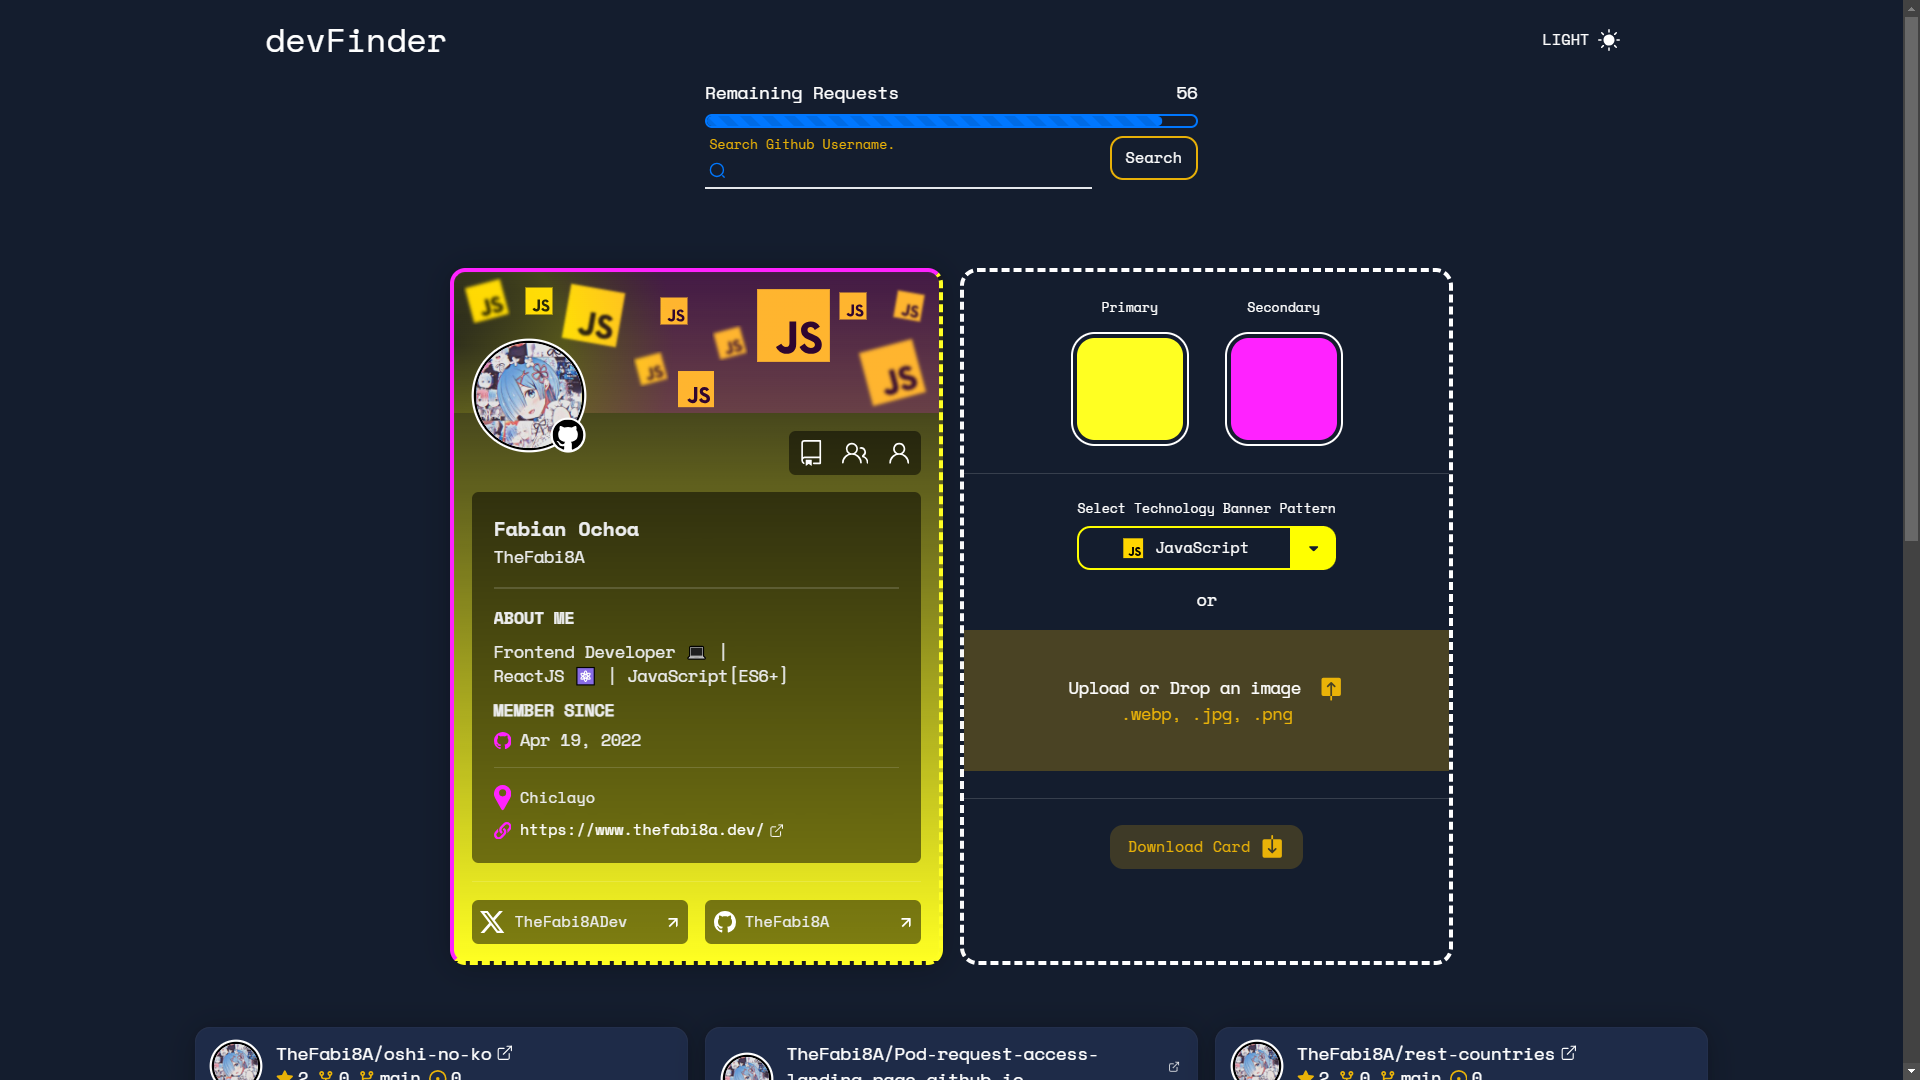
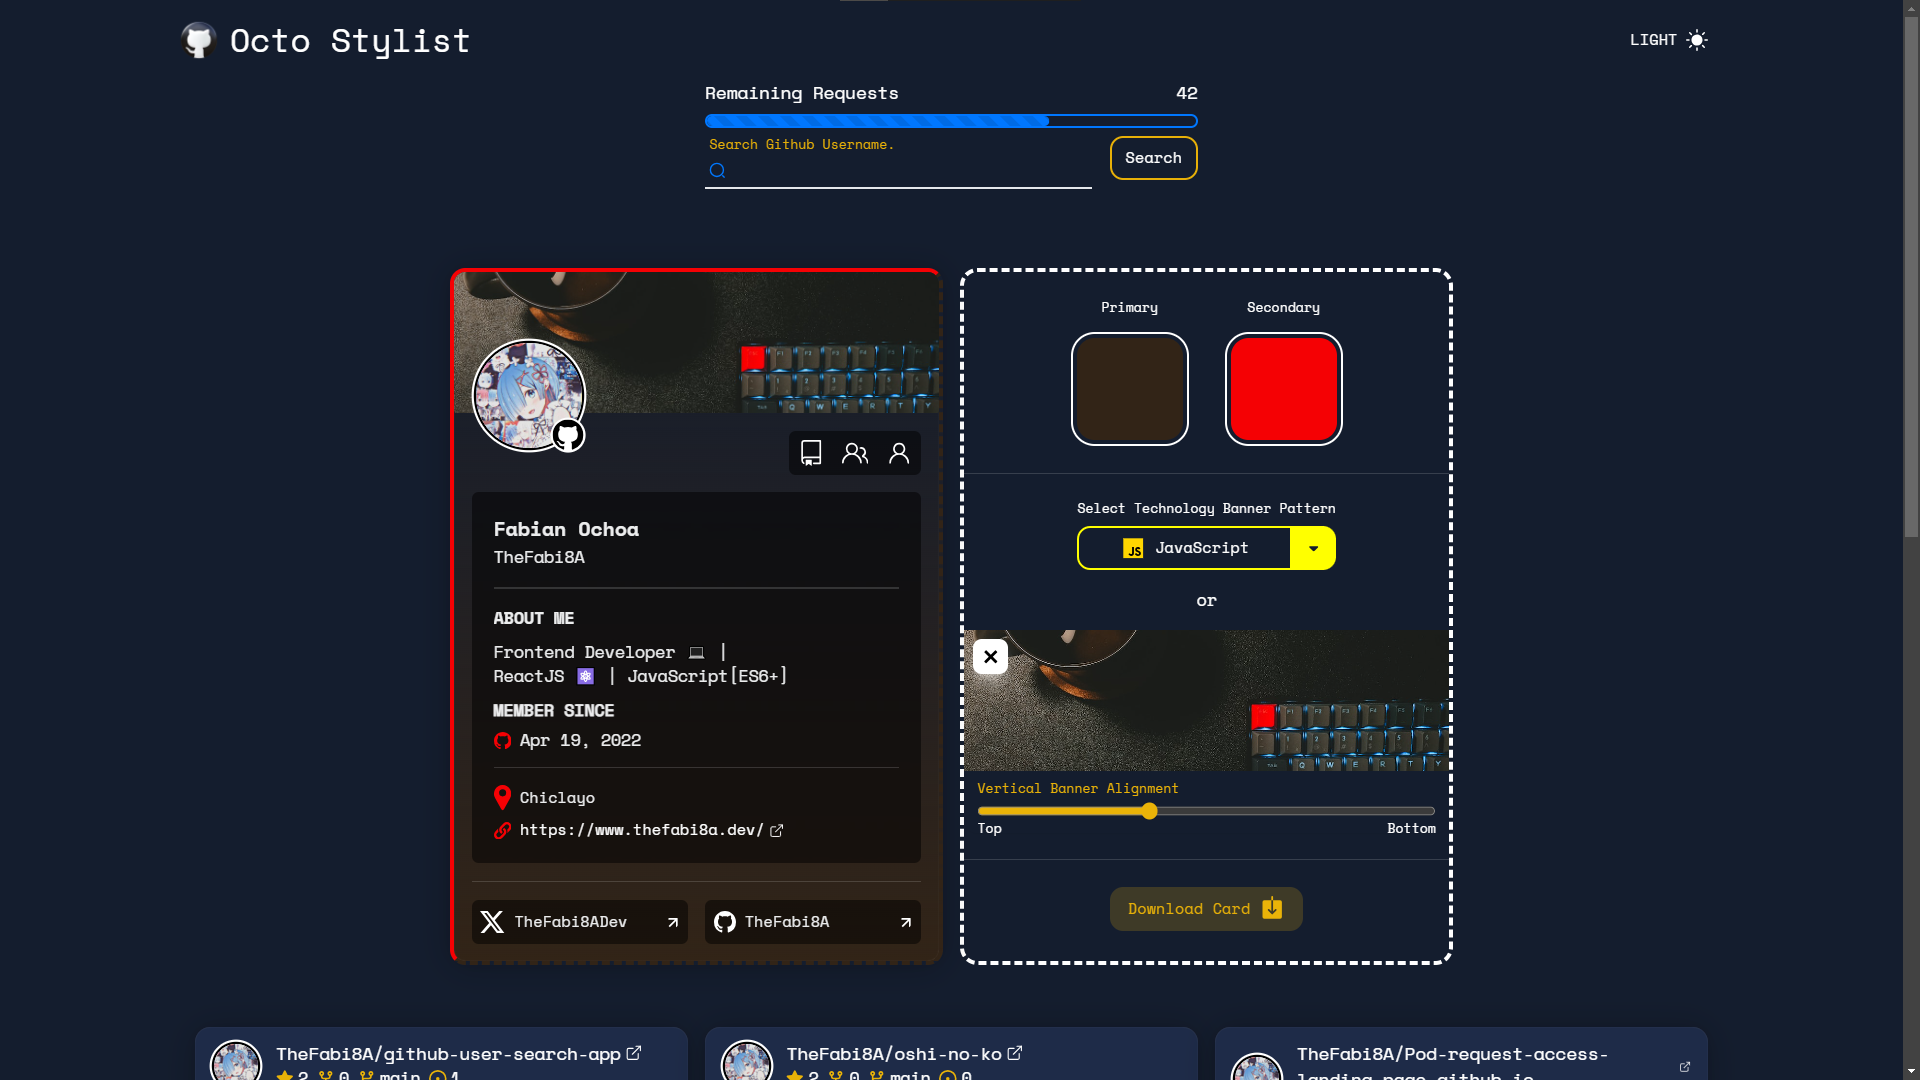
feat: fixed styles UserCard, optimized SEO & update screenshots

diff --git a/index.html b/index.html
@@ -4,7 +4,41 @@
 <head>
   <meta charset="UTF-8" />
   <meta name="viewport" content="width=device-width, initial-scale=1.0" />
-  <title>Github User Search App</title>
+  <title>Octo Stylist</title>
+  <meta name="description" content="User search engine on GitHub 👾 with menu to customize the card and download it.">
+  <link rel="canonical" href="https://oshi-no-ko-thefabi8a.vercel.app/" />
+  <meta property="og:title" content="Octo Stylist" />
+  <meta property="og:image" content="https://octo-stylist.vercel.app/screenshot-dark.png" />
+  <meta property="og:image:alt"
+    content="screenshot in dark mode showing thefabi8a user's card and a menu for customizing the colors and image of the card banner" />
+  <meta property="og:type" content="website" />
+  <meta property="og:description"
+    content="User search engine on GitHub 👾 with menu to customize the card and download it." />
+  <meta property="og:url" content="https://octo-stylist.vercel.app/" />
+  <meta property="twitter:url" content="https://octo-stylist.vercel.app/" />
+  <meta property="twitter:card" content="summary_large_image" />
+  <meta property="twitter:creator" content="@TheFabi8ADev" />
+  <meta property="twitter:title" content="Octo Stylist" />
+  <meta property="twitter:description"
+    content="User search engine on GitHub 👾 with menu to customize the card and download it." />
+  <meta property="twitter:image" content="https://octo-stylist.vercel.app/screenshot-dark.png" />
+  <link rel="apple-touch-icon" sizes="57x57" href="assets/icons/apple-icon-57x57.png" />
+  <link rel="apple-touch-icon" sizes="60x60" href="assets/icons/apple-icon-60x60.png" />
+  <link rel="apple-touch-icon" sizes="72x72" href="assets/icons/apple-icon-72x72.png" />
+  <link rel="apple-touch-icon" sizes="76x76" href="assets/icons/apple-icon-76x76.png" />
+  <link rel="apple-touch-icon" sizes="114x114" href="assets/icons/apple-icon-114x114.png" />
+  <link rel="apple-touch-icon" sizes="120x120" href="assets/icons/apple-icon-120x120.png" />
+  <link rel="apple-touch-icon" sizes="144x144" href="assets/icons/apple-icon-144x144.png" />
+  <link rel="apple-touch-icon" sizes="152x152" href="assets/icons/apple-icon-152x152.png" />
+  <link rel="apple-touch-icon" sizes="180x180" href="assets/icons/apple-icon-180x180.png" />
+  <link rel="icon" type="image/png" sizes="192x192" href="assets/icons/android-icon-192x192.png" />
+  <link rel="icon" type="image/png" sizes="32x32" href="assets/icons/favicon-32x32.png" />
+  <link rel="icon" type="image/png" sizes="96x96" href="assets/icons/favicon-96x96.png" />
+  <link rel="icon" type="image/png" sizes="16x16" href="assets/icons/favicon-16x16.png" />
+  <meta name="msapplication-TileImage" content="assets/icons/ms-icon-144x144.png" />
+  <link rel="manifest" href="/manifest.json" />
+  <meta name="msapplication-TileColor" content="#ffffff" />
+  <meta name="theme-color" content="#000000" />
 </head>
 
 <body

diff --git a/src/Components/MenuStylesCard/index.js b/src/Components/MenuStylesCard/index.js
@@ -26,7 +26,6 @@ export const Index = () => {
     CompanyIconRef,
     WebsiteIconRef,
     GitHubUserCardRef,
-    theme,
     BannerGradientOneRef,
     BannerGradientTwoRef,
   } = useContext(GithubUserContext);
@@ -119,9 +118,7 @@ export const Index = () => {
     const value = e.target.value;
 
     if (GitHubUserCardRef.current) {
-      GitHubUserCardRef.current.style.background = `linear-gradient(to bottom, ${
-        theme === "dark" ? "#141d2e" : "#ffffff"
-      }, ${value})`;
+      GitHubUserCardRef.current.style.background = `linear-gradient(to bottom, transparent, ${value})`;
 
       GitHubUserCardRef.current.style.borderBottom = `4px dashed ${value}`;
       GitHubUserCardRef.current.style.borderRight = `4px dashed ${value}`;

diff --git a/src/Components/Header/Header.jsx b/src/Components/Header/Header.jsx
@@ -3,8 +3,15 @@ import BtnToggleTheme from "../Buttons/BtnToggleTheme";
 export default function Header() {
   return (
     <>
-      <header className="mx-auto flex w-full max-w-7xl items-center justify-between p-4 pb-0">
-        <h1 className="text-3xl">devFinder</h1>
+      <header className="mx-auto flex w-full max-w-[1440px] items-center justify-between p-4 pb-0">
+        <div className="flex items-center gap-2">
+          <img
+            className="w-10"
+            src="assets/images/3d-fluency-github-logo.webp"
+            alt="3D Logo GitHub"
+          />
+          <h1 className="text-3xl">Octo Stylist</h1>
+        </div>
         <BtnToggleTheme />
       </header>
     </>

diff --git a/src/Components/Svg/MoonIcon.jsx b/src/Components/Svg/MoonIcon.jsx
@@ -3,7 +3,7 @@ export const MoonIcon = (props) => {
     <svg width="20" height="20" xmlns="http://www.w3.org/2000/svg" {...props}>
       <path
         d="M19.513 11.397a.701.701 0 00-.588.128 7.496 7.496 0 01-2.276 1.336 7.101 7.101 0 01-2.583.462 7.505 7.505 0 01-5.32-2.209 7.568 7.568 0 01-2.199-5.342c0-.873.154-1.72.41-2.49a6.904 6.904 0 011.227-2.21.657.657 0 00-.102-.924.701.701 0 00-.589-.128C5.32.61 3.427 1.92 2.072 3.666A10.158 10.158 0 000 9.83c0 2.8 1.125 5.342 2.967 7.19a10.025 10.025 0 007.16 2.98c2.353 0 4.527-.822 6.266-2.183a10.13 10.13 0 003.58-5.624.623.623 0 00-.46-.796z"
-        fill="#697C9A"
+        fill="#141d2e"
         fillRule="nonzero"
       />
     </svg>

diff --git a/src/Components/Cards/UserCard/UserCard.jsx b/src/Components/Cards/UserCard/UserCard.jsx
@@ -84,6 +84,7 @@ export default function UserCard() {
                 backgroundImage: `url(${bannerCardImageFile})`,
                 backgroundRepeat: "no-repeat",
                 backgroundSize: "cover",
+                backgroundPosition: "center",
               }
             : {
                 background: `

diff --git a/src/Components/Footer/Footer.jsx b/src/Components/Footer/Footer.jsx
@@ -18,7 +18,7 @@ export default function Footer() {
           }
           className="self-center border-blue text-blue transition-colors dark:text-white"
         >
-          Github User Search App
+          Octo Stylist
         </Button>
       </footer>
     </>

diff --git a/README.md b/README.md
@@ -1,4 +1,4 @@
-# GitHub User Search App
+# Octo Stylist
 
 This is a solution to the [GitHub User Search App Challenge in Frontend Mentor](https://www.frontendmentor.io/challenges/github-user-search-app-Q09YOgaH6).
 
@@ -12,7 +12,6 @@ This is a solution to the [GitHub User Search App Challenge in Frontend Mentor](
   - [Links](#links)
 - [Built with](#built-with)
 - [Author](#author)
-- [Acknowledgment](#acknowledgment)
 
 ## Overview
 
